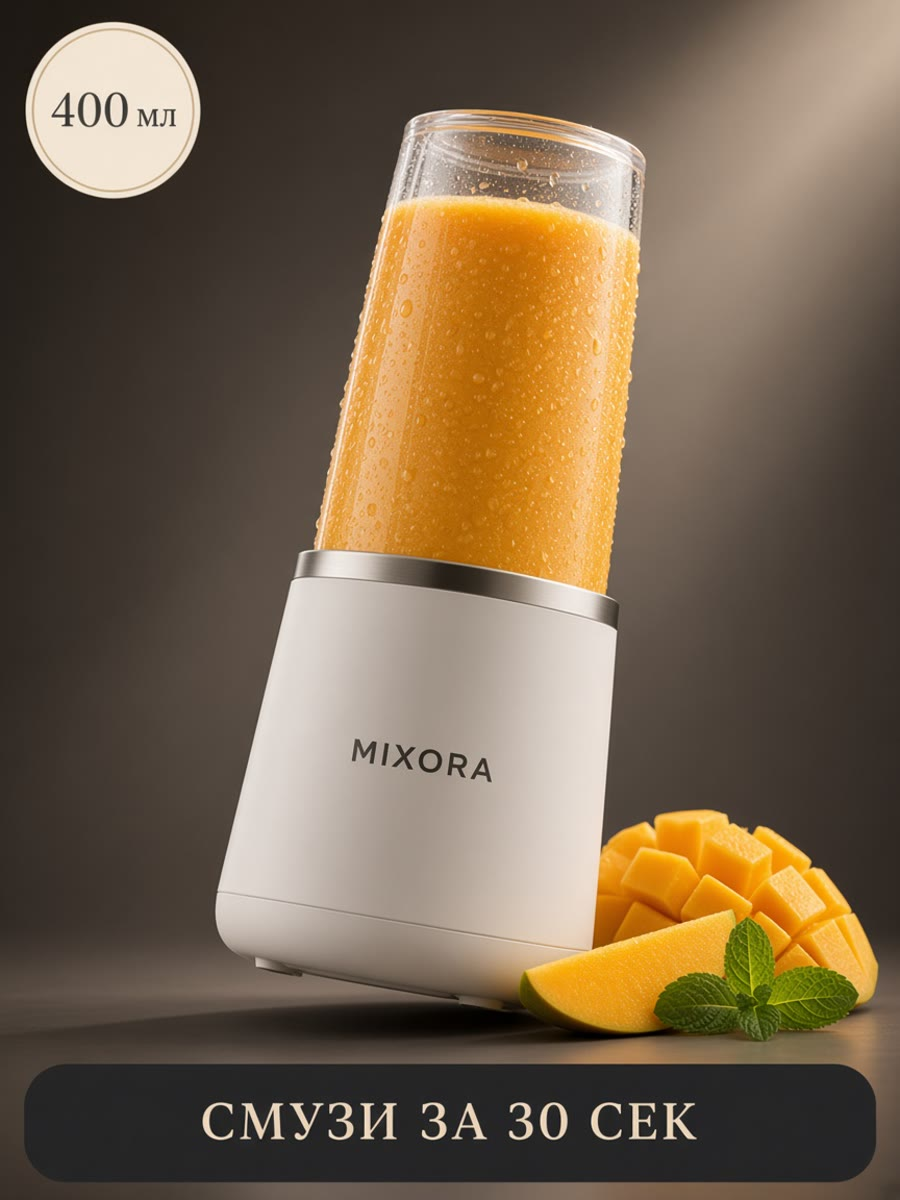
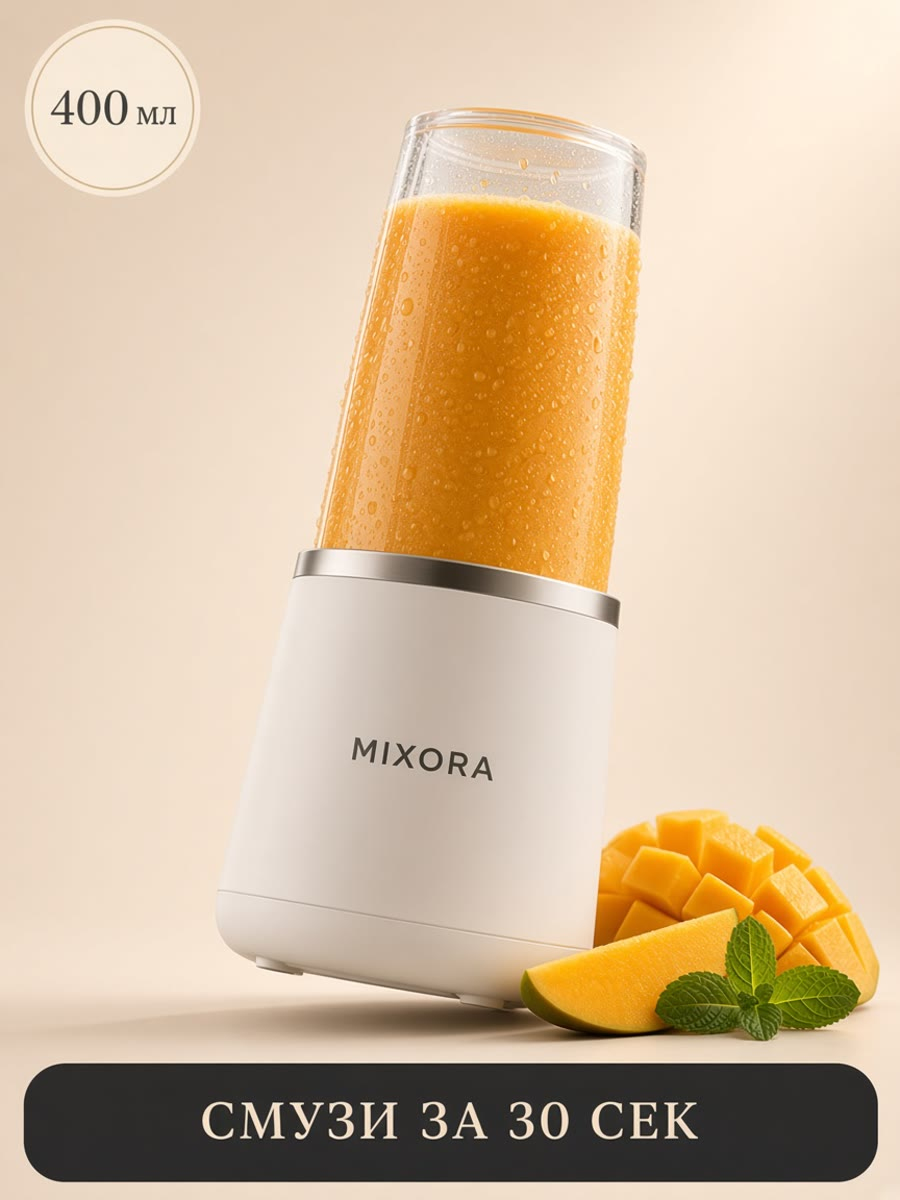
Remove MIXORA funnel logic; fix cover crop cutting bottom text.

diff --git a/public/marketplace/index.html b/public/marketplace/index.html
@@ -8,9 +8,9 @@
   <link rel="preconnect" href="https://fonts.googleapis.com">
   <link rel="preconnect" href="https://fonts.gstatic.com" crossorigin>
   <link href="https://fonts.googleapis.com/css2?family=DM+Sans:ital,opsz,wght@0,9..40,400;0,9..40,500;0,9..40,600&family=IBM+Plex+Mono:wght@400;500&family=Syne:wght@600;700;800&display=swap" rel="stylesheet">
-  <link rel="stylesheet" href="../css/styles.css?v=20261018e">
-  <link rel="stylesheet" href="../css/neon.css?v=20261018e">
-  <link rel="stylesheet" href="../css/marketplace.css?v=20261018e">
+  <link rel="stylesheet" href="../css/styles.css?v=20261018f">
+  <link rel="stylesheet" href="../css/neon.css?v=20261018f">
+  <link rel="stylesheet" href="../css/marketplace.css?v=20261018f">
 </head>
 <body class="page-marketplace">
 
@@ -261,49 +261,6 @@
             <figcaption>05 · уход</figcaption>
           </figure>
         </div>
-
-        <div class="mp-breakdown-wrap">
-          <button
-            type="button"
-            class="mp-breakdown-toggle"
-            id="blenderBreakdownBtn"
-            aria-expanded="false"
-            aria-controls="blenderBreakdown"
-            data-breakdown-toggle
-            data-closed-label="Логика воронки"
-            data-open-label="Скрыть логику"
-          >
-            <span class="mp-breakdown-toggle__text">Логика воронки</span>
-            <span class="mp-breakdown-toggle__chev" aria-hidden="true"></span>
-          </button>
-
-          <div class="mp-breakdown" id="blenderBreakdown" data-breakdown hidden>
-            <div class="mp-breakdown__clip">
-              <div class="mp-breakdown__inner">
-                <div class="mp-gadget-logic">
-                  <div class="mp-gadget-logic__card">
-                    <h4 class="mp-deep__title">Чем гаджет отличается от beauty</h4>
-                    <p class="mp-compare__note" style="margin:0">
-                      В парфюме важны эмоция и ноты. Здесь покупатель сразу ищет мощность, объём, комплектацию
-                      и «влезет ли в сумку»; слайд 05 закрывает страх «будет сложно мыть».
-                    </p>
-                  </div>
-                  <div class="mp-gadget-logic__card">
-                    <h4 class="mp-deep__title">Как избежали однотипности</h4>
-                    <ul class="mp-deep__list">
-                      <li><strong>01</strong> — студия, манго (первый экран)</li>
-                      <li><strong>02</strong> — действие: наливает зелёный смузи</li>
-                      <li><strong>03</strong> — разбор комплектации, без фруктов</li>
-                      <li><strong>04</strong> — сценарий «на работу»</li>
-                      <li><strong>05</strong> — уход: открутить → промыть → собрать</li>
-                    </ul>
-                  </div>
-                </div>
-                <p class="mp-footnote">В заказе на реальный блендер сверяем корпус, кнопки и цвет с фото селлера — AI только для сцен и света.</p>
-              </div>
-            </div>
-          </div>
-        </div>
       </article>
     </div>
   </section>
@@ -468,12 +425,12 @@
     <span id="themeToggleLabel">Неон: вкл</span>
   </button>
 
-  <script src="../js/site-config.js?v=20261018e"></script>
-  <script src="../js/apply-site-config.js?v=20261018e"></script>
-  <script src="../js/marketplace-lightbox.js?v=20261018e"></script>
-  <script src="../js/marketplace-case-expand.js?v=20261018e"></script>
-  <script src="../js/marketplace-breakdown.js?v=20261018e"></script>
-  <script src="../js/marketplace-brief.js?v=20261018e"></script>
-  <script src="../js/main.js?v=20261018e"></script>
+  <script src="../js/site-config.js?v=20261018f"></script>
+  <script src="../js/apply-site-config.js?v=20261018f"></script>
+  <script src="../js/marketplace-lightbox.js?v=20261018f"></script>
+  <script src="../js/marketplace-case-expand.js?v=20261018f"></script>
+  <script src="../js/marketplace-breakdown.js?v=20261018f"></script>
+  <script src="../js/marketplace-brief.js?v=20261018f"></script>
+  <script src="../js/main.js?v=20261018f"></script>
 </body>
 </html>

diff --git a/public/css/marketplace.css b/public/css/marketplace.css
@@ -735,11 +735,16 @@
   .mp-gadget-layout__hero {
     grid-column: 1;
     grid-row: 1 / span 2;
+    align-self: start;
   }
 
+  /* contain — не обрезать баннеры и текст внизу обложки */
   .mp-gadget-layout__hero img {
-    height: 100%;
-    object-fit: cover;
+    width: 100%;
+    height: auto;
+    aspect-ratio: 3 / 4;
+    object-fit: contain;
+    object-position: center top;
   }
 
   /* 5 слайдов: обложка слева на 2 ряда, справа 2×2 */
